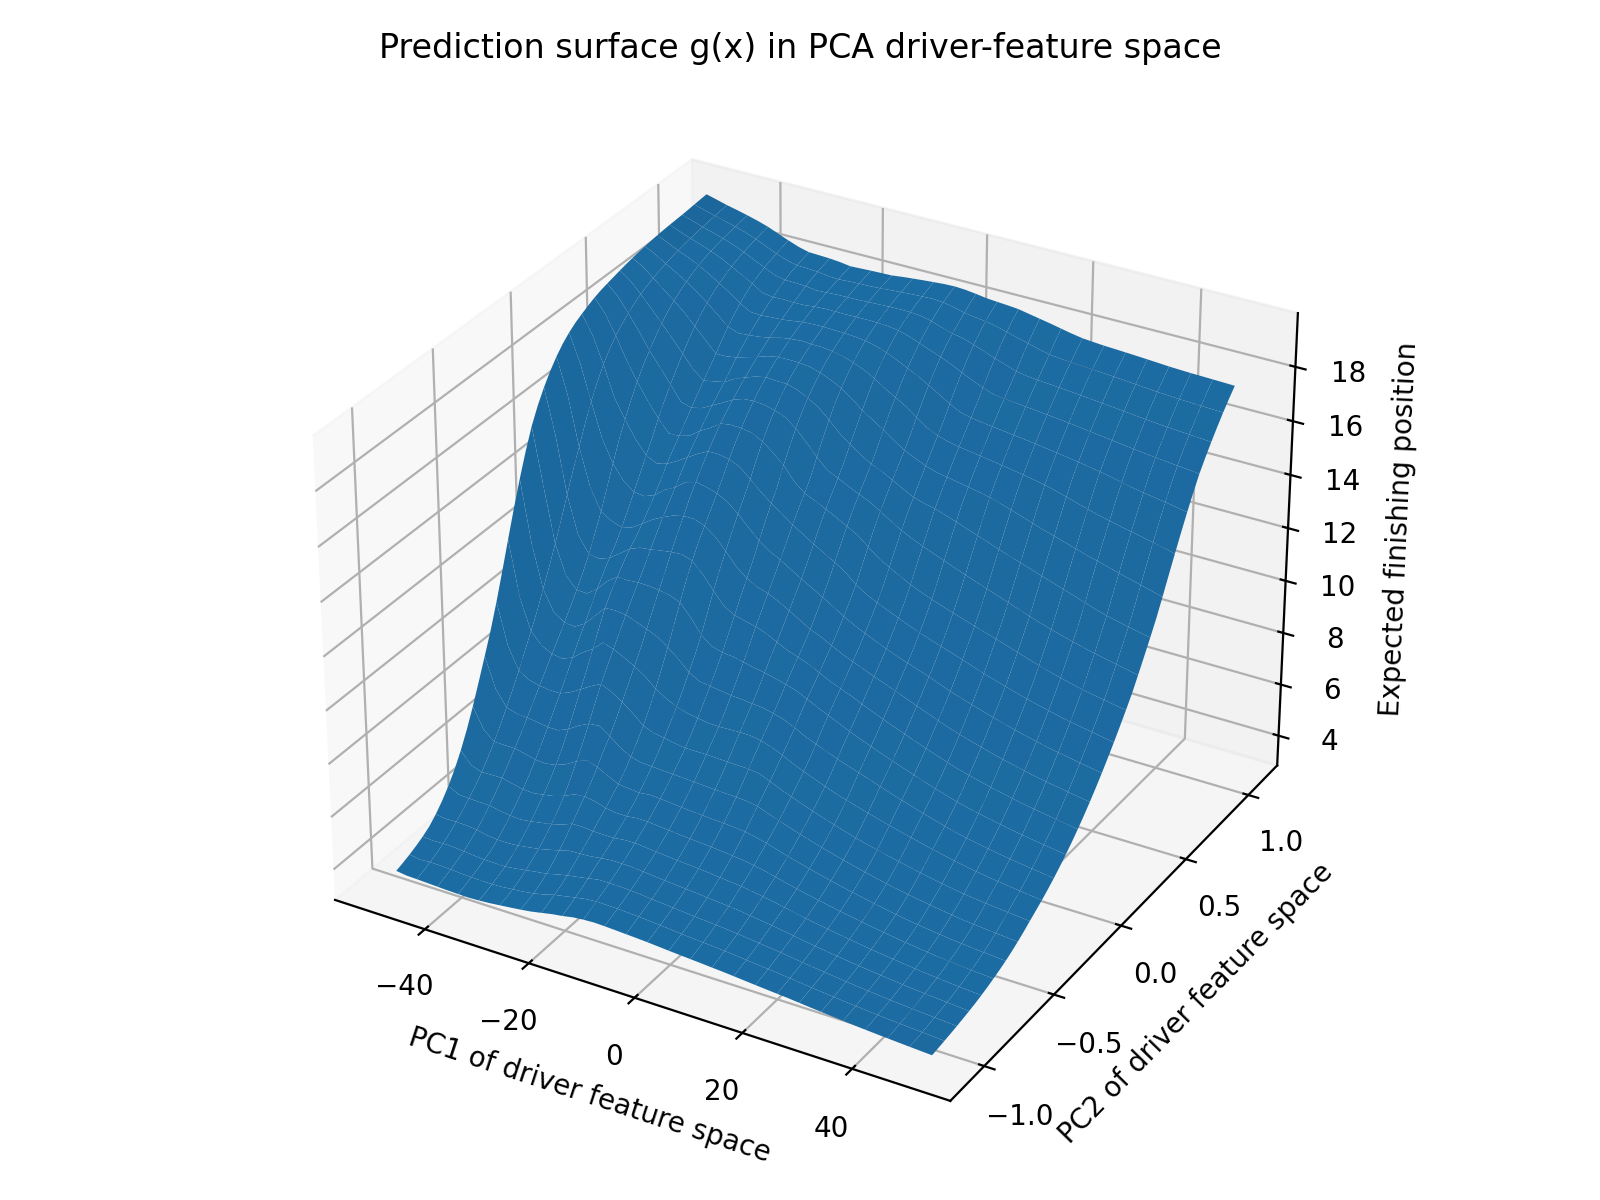
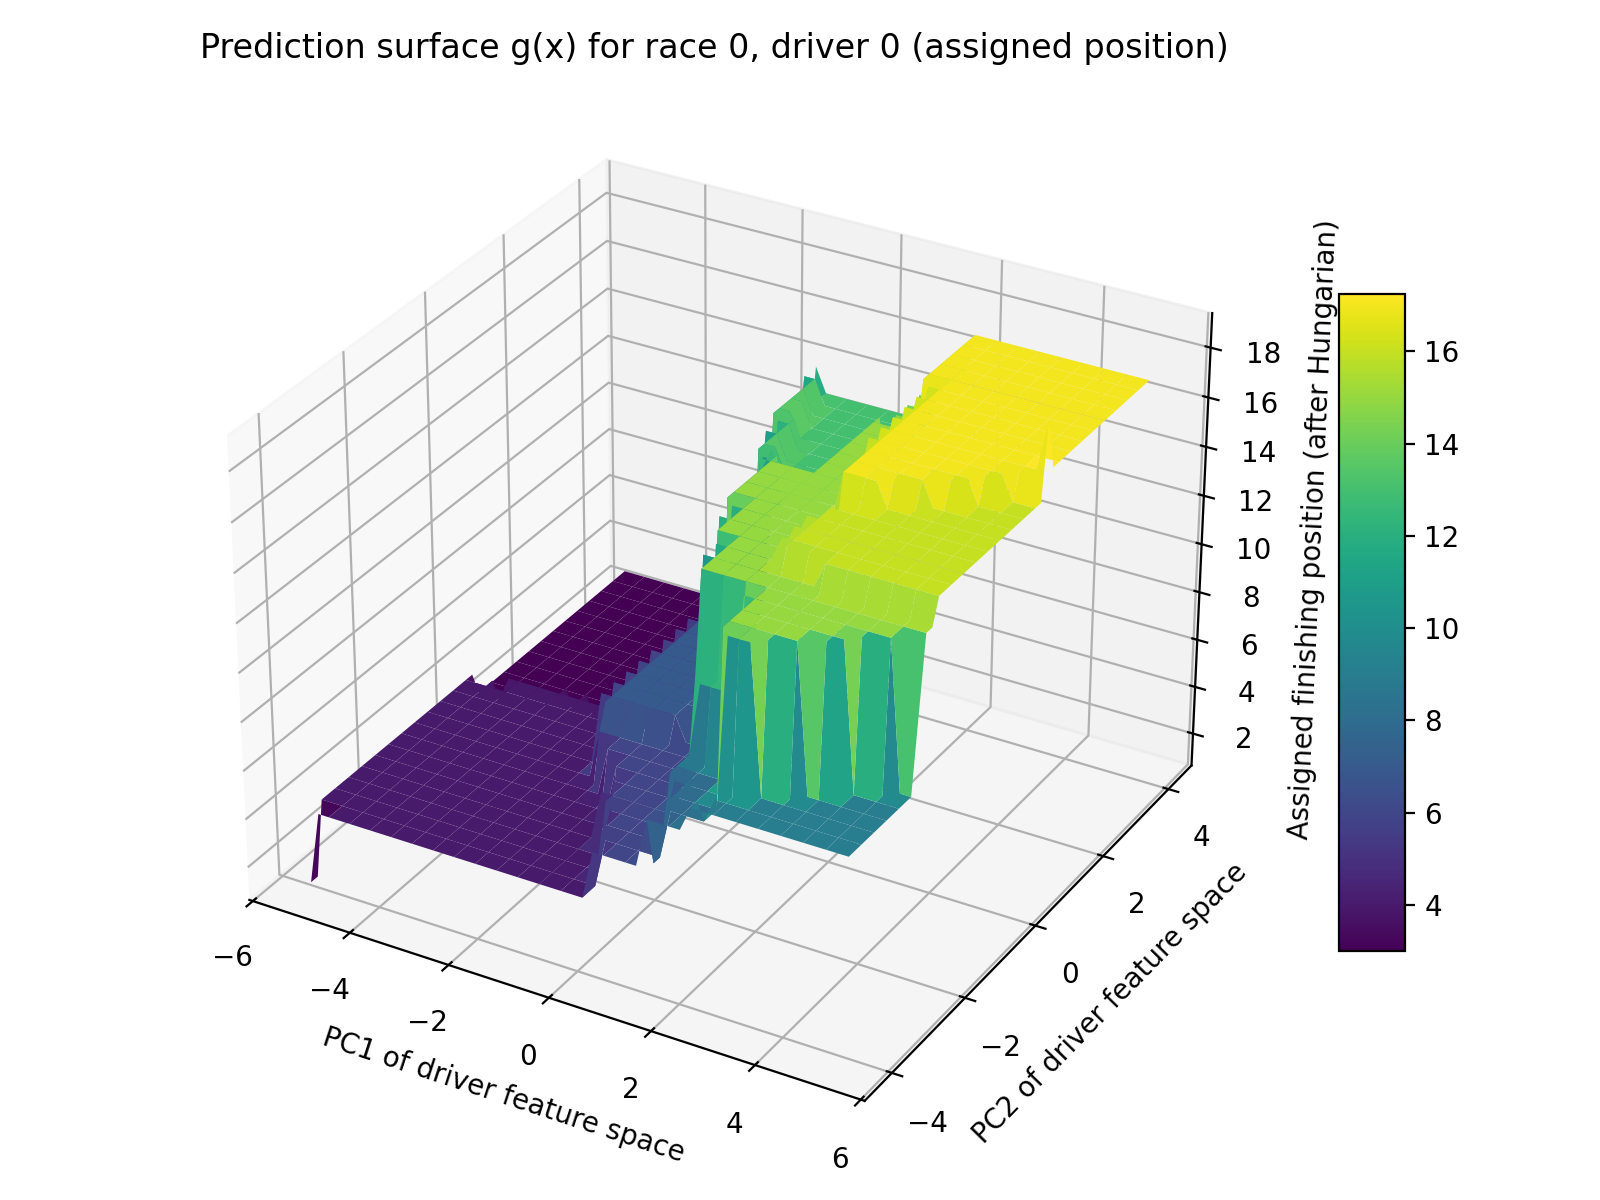
final

diff --git a/main.py b/main.py
@@ -1176,11 +1176,11 @@ class F1PositionPredictionPipeline:
 
     def visualize_loss_landscape_f_theta(self, sample_size: int = 50, grid_size: int = 21,
                                          alpha: float = 1.0,
-                                         save_path: str = "loss_landscape_f_theta.png") -> None:
+                                         save_path: str = "loss_landscape_f_theta.png") -> tuple:
         # Visualize f(theta): loss as a function of parameters in a 2D PCA plane.
-        if not self.theta_history:
-            print("No theta history found. Train the model first.")
-            return
+        if not self.theta_history or len(self.theta_history) < 3:
+            print("Not enough theta history found (need at least 3). Train the model first.")
+            return None, None
 
         print("\nGenerating f(theta) loss landscape visualization...")
 
@@ -1189,12 +1189,16 @@ class F1PositionPredictionPipeline:
 
         # PCA in parameter space
         pca = PCA(n_components=2)
-        pca.fit(theta_mat)
+        proj = pca.fit_transform(theta_mat)  # [E,2]
 
         theta_star = theta_mat[-1]     # final parameters
         d1, d2 = pca.components_       # two principal directions
 
-        #  small subset of data to estimate loss
+        # scale grid extents by the std dev of the trajectory projections
+        s1 = proj[:, 0].std()
+        s2 = proj[:, 1].std()
+
+        # small subset of data to estimate loss
         X = self.X_train
         y = self.y_train
         mask = self.create_mask(y)
@@ -1220,11 +1224,38 @@ class F1PositionPredictionPipeline:
                     p.copy_(new_vals)
                     offset += numel
 
-        #evaluate loss on a 2D grid in PCA coordinates
-        us = np.linspace(-alpha, alpha, grid_size)
-        vs = np.linspace(-alpha, alpha, grid_size)
+        #evaluate loss on a 2D grid in PCA coordinates scaled by trajectory std
+        us = np.linspace(-alpha * s1, alpha * s1, grid_size)
+        vs = np.linspace(-alpha * s2, alpha * s2, grid_size)
         U, V = np.meshgrid(us, vs)
         Z = np.zeros_like(U)
+
+        # Prepare class weights as used during training (same logic as train_final_model)
+        y_flat = self.y_train.flatten()
+        valid_mask_global = (y_flat >= 1) & (y_flat <= 21)
+        y_valid_global = y_flat[valid_mask_global]
+        class_counts = np.bincount((y_valid_global - 1).astype(int), minlength=21)
+        total_samples = class_counts.sum()
+        class_weights = total_samples / (class_counts + 1e-6)
+        class_weights[20] *= 10.0
+        class_weights = class_weights / class_weights.sum() * 21
+        class_weights_t = torch.from_numpy(class_weights).float().to(self.device)
+
+        # FocalLoss matching training
+        class FocalLossLocal(nn.Module):
+            def __init__(self, alpha=None, gamma=2.0, reduction='none'):
+                super(FocalLossLocal, self).__init__()
+                self.alpha = alpha
+                self.gamma = gamma
+                self.reduction = reduction
+
+            def forward(self, inputs, targets):
+                ce_loss = nn.functional.cross_entropy(inputs, targets, weight=self.alpha, reduction='none')
+                pt = torch.exp(-ce_loss)
+                focal_loss = ((1 - pt) ** self.gamma) * ce_loss
+                return focal_loss
+
+        fl = FocalLossLocal(alpha=class_weights_t, gamma=2.0, reduction='none')
 
         self.model.eval()
         with torch.no_grad():
@@ -1241,26 +1272,37 @@ class F1PositionPredictionPipeline:
                     targets_flat = (y_t - 1).clamp(0, 20).view(-1)
                     mask_flat = mask_t.view(-1)
 
-                    ce = nn.functional.cross_entropy(
-                        logits_flat, targets_flat, reduction='none'
-                    )
-                    loss = (ce * mask_flat).sum().item() / (mask_flat.sum().item() + 1e-8)
+                    loss_per_sample = fl(logits_flat, targets_flat)
+                    # mask-average
+                    loss = (loss_per_sample * mask_flat).sum().item() / (mask_flat.sum().item() + 1e-8)
                     Z[i, j] = loss
 
         # project training trajectory into PCA plane
-        traj_2d = pca.transform(theta_mat)  # [epochs, 2]
+        traj_2d = proj  # [epochs, 2]
 
         # plot surface + trajectory
         fig = plt.figure(figsize=(8, 6))
         ax = fig.add_subplot(111, projection='3d')
         ax.plot_surface(U, V, Z, linewidth=0, antialiased=True, alpha=0.75)
+        # compute training trajectory z-values by mapping projected points to nearest grid cell
+        z_traj = []
+        flat_us = us
+        flat_vs = vs
+        for (u_proj, v_proj) in traj_2d:
+            # find nearest grid index
+            du = np.abs(flat_us - u_proj)
+            dv = np.abs(flat_vs - v_proj)
+            iu = np.argmin(du)
+            iv = np.argmin(dv)
+            z_traj.append(Z[iv, iu])
+
         ax.plot(
             traj_2d[:, 0],
             traj_2d[:, 1],
-            [Z.min() - 0.1] * len(traj_2d),
+            z_traj,
             marker='o',
             color='black',
-            label='Training trajectory',
+            label='Training trajectory (projection)',
         )
 
         ax.set_xlabel("PCA dir 1 in parameter space")
@@ -1269,12 +1311,11 @@ class F1PositionPredictionPipeline:
         ax.set_title("Loss landscape f(θ) with training trajectory")
         ax.legend()
         plt.tight_layout()
-        plt.savefig(save_path, dpi=200)
-        plt.close(fig)
+        # Interactive display; don't save to disk
+        plt.show()
+        return fig, ax
 
-        print(f"Saved f(theta) loss landscape figure to {save_path}")
-
-    def visualize_prediction_surface_g_x(self, grid_size: int = 51, alpha: float = 2.0,
+    def visualize_prediction_surface_g_x(self, race_idx:int = 0, driver_idx:int = 0, grid_size: int = 51, alpha: float = 2.5,
                                          save_path: str = "prediction_surface_g_x.png") -> None:
         # Visualize g(x): model predictions as a function of input features in a 2D PCA plane.
         print("\nGenerating g(x) prediction surface visualization...")
@@ -1283,17 +1324,21 @@ class F1PositionPredictionPipeline:
             print("g(x) visualization currently implemented only for standard (non-pointer, non-conditional) model.")
             return
 
-        #  flatten all driver features from training set
+        # 1) Flatten training driver feature vectors, scale, PCA
+        from sklearn.preprocessing import StandardScaler
+
         num_races, num_drivers, num_features = self.X_train.shape
         X_flat = self.X_train.reshape(-1, num_features)  # [num_races * drivers, num_features]
 
-        # PCA in feature space
+        scaler = StandardScaler().fit(X_flat)
+        X_scaled = scaler.transform(X_flat)
+
         pca = PCA(n_components=2)
-        X_2d = pca.fit_transform(X_flat)
+        X_2d = pca.fit_transform(X_scaled)
         mean_2d = X_2d.mean(axis=0)
         std_2d = X_2d.std(axis=0)
 
-        #  build grid in PCA space around mean
+        # 2) Prepare grid in PCA (scaled) space around mean
         u_vals = np.linspace(mean_2d[0] - alpha * std_2d[0],
                              mean_2d[0] + alpha * std_2d[0], grid_size)
         v_vals = np.linspace(mean_2d[1] - alpha * std_2d[1],
@@ -1301,37 +1346,79 @@ class F1PositionPredictionPipeline:
         U, V = np.meshgrid(u_vals, v_vals)
         grid_points_2d = np.stack([U.ravel(), V.ravel()], axis=1)  # [G, 2]
 
-        # 3) map grid back to original feature space
-        grid_features = pca.inverse_transform(grid_points_2d)  # [G, num_features]
-        grid_features_t = torch.from_numpy(grid_features).float().to(self.device)
+        # 3) Choose base race context and driver index
+        if race_idx < 0 or race_idx >= num_races:
+            raise ValueError(f"race_idx {race_idx} out of range [0, {num_races})")
+        if driver_idx < 0 or driver_idx >= num_drivers:
+            raise ValueError(f"driver_idx {driver_idx} out of range [0, {num_drivers})")
 
-        # 4) run through encoder + position head
+        base_race = self.X_train[race_idx].copy()  # [num_drivers, num_features]
+        # Mask for valid drivers from training labels (if available)
+        try:
+            race_mask = self.create_mask(self.y_train[[race_idx]])[0]
+        except Exception:
+            race_mask = np.ones((num_drivers,), dtype=np.float32)
+
+        # 4) For each grid point: inverse transform to scaled features -> original features,
+        #    replace driver feature in the base race, forward the full race input through
+        #    the model, compute softmax probabilities, run Hungarian matching and DNF adjustment,
+        #    then record assigned finishing position for selected driver.
+        Z = np.zeros_like(U)
+
         self.model.eval()
         with torch.no_grad():
-            encoded = self.model.encoder(grid_features_t)   # [G, hidden_dim]
-            logits = self.model.position_head(encoded)      # [G, 21]
-            probs = torch.softmax(logits, dim=-1)           # [G, 21]
-            
-            # expected finishing position: sum_k p_k * k
-            positions = torch.arange(1, 22, device=self.device).float()
-            expected_position = (probs * positions).sum(dim=-1)  # [G]
-            expected_position_np = expected_position.cpu().numpy()
+            # Pre-create tensors for the base race to reuse
+            for i in range(grid_points_2d.shape[0]):
+                pt2d = grid_points_2d[i]
+                # map back to scaled features then to original feature scale
+                scaled_feat = pca.inverse_transform(pt2d.reshape(1, -1))  # [1, F] scaled
+                orig_feat = scaler.inverse_transform(scaled_feat).reshape(-1)  # [F]
 
-        Z = expected_position_np.reshape(U.shape)
+                # replace driver feature
+                race_input = base_race.copy()
+                race_input[driver_idx] = orig_feat
+
+                # model forward expects [batch, drivers, features]
+                x_t = torch.from_numpy(race_input.reshape(1, num_drivers, num_features)).float().to(self.device)
+                logits = self.model(x_t)  # [1, drivers, 21]
+                probs = torch.softmax(logits, dim=-1)  # torch tensor
+
+                # prepare mask as tensor of shape [1, num_drivers]
+                mask_t = torch.from_numpy(np.array([race_mask])).float().to(self.device)
+
+                # Hungarian matching and DNF adjustment
+                assignments = self.hungarian_matching(probs, mask_t)  # numpy int32
+                assignments_adj = self.adjust_positions_for_dnfs(assignments)
+
+                assigned_pos = int(assignments_adj[0, driver_idx])
+                Z.ravel()[i] = assigned_pos
 
         # plot surface
         fig = plt.figure(figsize=(8, 6))
         ax = fig.add_subplot(111, projection='3d')
-        ax.plot_surface(U, V, Z, linewidth=0, antialiased=True)
-        ax.set_xlabel("PC1 of driver feature space")
-        ax.set_ylabel("PC2 of driver feature space")
-        ax.set_zlabel("Expected finishing position")
-        ax.set_title("Prediction surface g(x) in PCA driver-feature space")
-        plt.tight_layout()
-        plt.savefig(save_path, dpi=200)
-        plt.close(fig)
+        surf = ax.plot_surface(U, V, Z, linewidth=0, antialiased=True, cmap='viridis')
+        fig.colorbar(surf, ax=ax, shrink=0.6, aspect=10)
+        # Choose top-2 contributing features by absolute loading for each PC
+        try:
+            comp = pca.components_
+            # Ensure we have at least two features
+            pc1_idxs = np.argsort(np.abs(comp[0]))[::-1][:2]
+            pc2_idxs = np.argsort(np.abs(comp[1]))[::-1][:2]
+            pc1_feats = [self.feature_names[i] for i in pc1_idxs]
+            pc2_feats = [self.feature_names[i] for i in pc2_idxs]
+        except Exception:
+            # Fallback to generic labels if something goes wrong
+            pc1_feats = ["PC1_feature1", "PC1_feature2"]
+            pc2_feats = ["PC2_feature1", "PC2_feature2"]
 
-        print(f"Saved g(x) prediction surface figure to {save_path}")
+        ax.set_xlabel(f"PC1 ({pc1_feats[0]}, {pc1_feats[1]})")
+        ax.set_ylabel(f"PC2 ({pc2_feats[0]}, {pc2_feats[1]})")
+        ax.set_zlabel("Assigned finishing position (after Hungarian)")
+        ax.set_title(f"Prediction surface g(x) for race {race_idx}, driver {driver_idx} (assigned position)")
+        plt.tight_layout()
+        # Do not save to disk; display interactively and return figure & axes
+        plt.show()
+        return fig, ax
     
     def _production_evaluation_metrics(self, predictions, targets, masks, tol2_acc):
         # Comprehensive production-grade evaluation metrics
